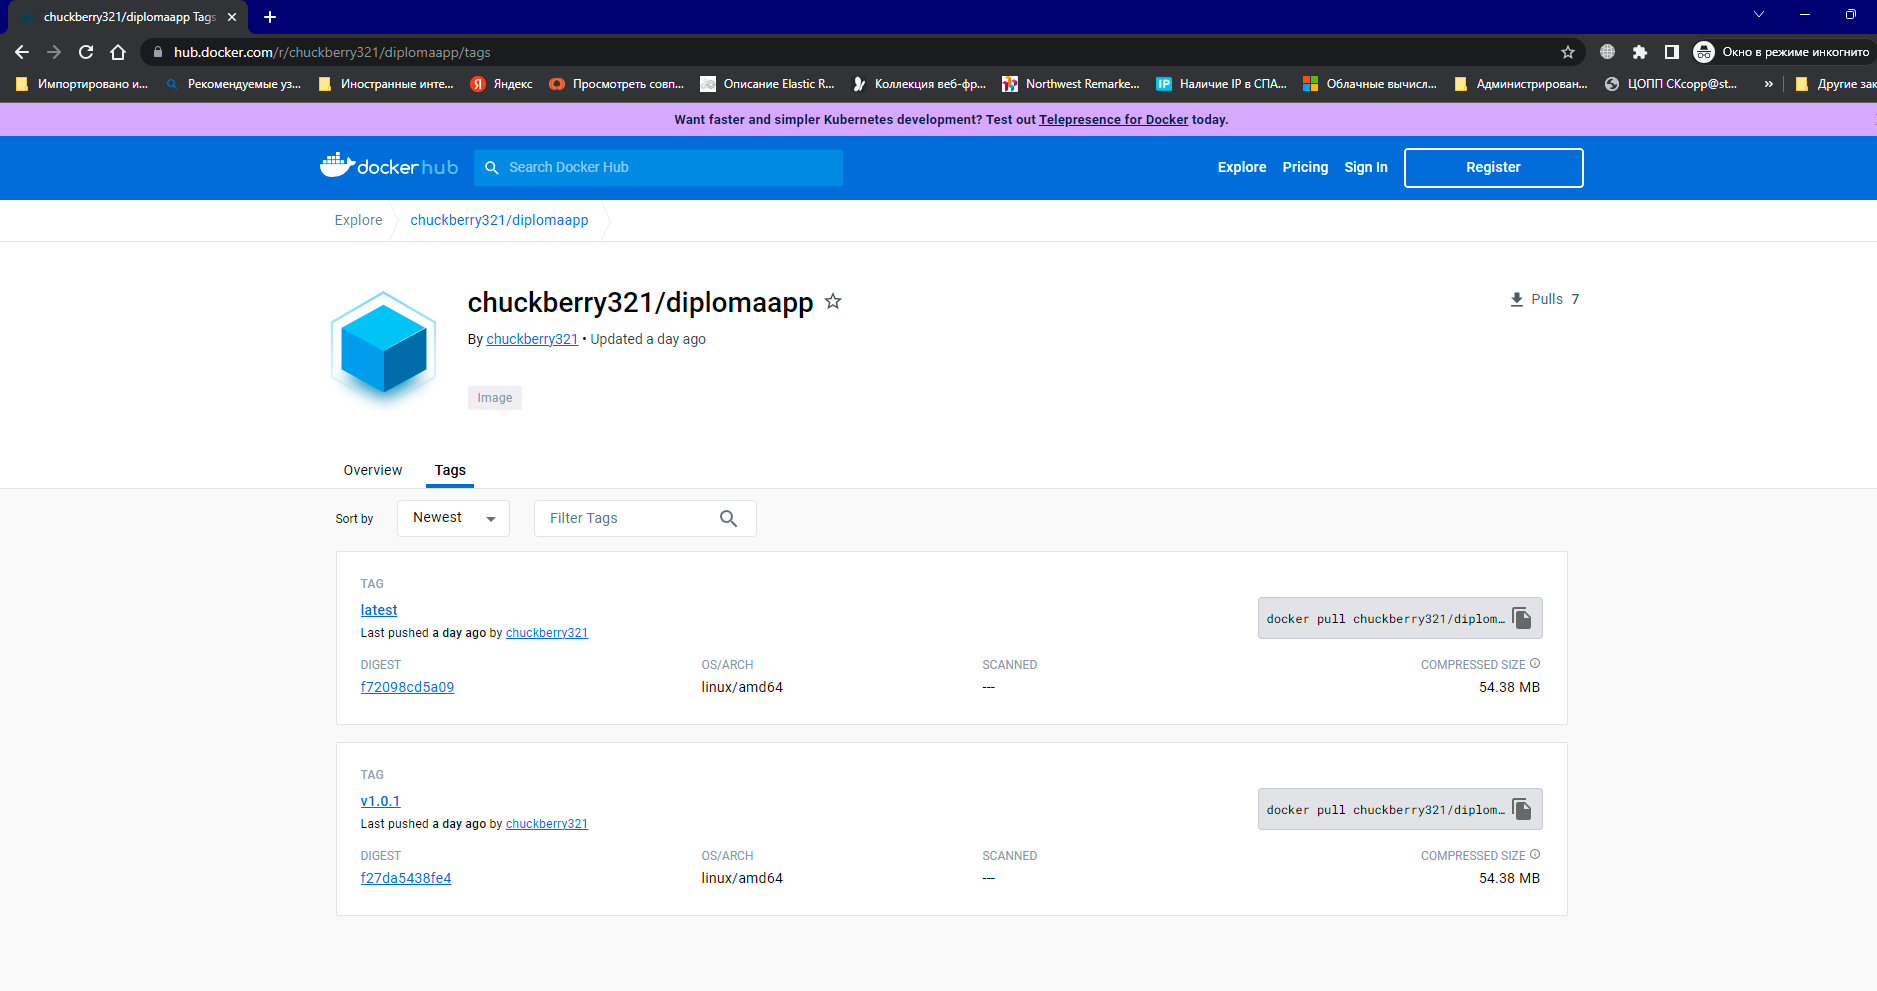
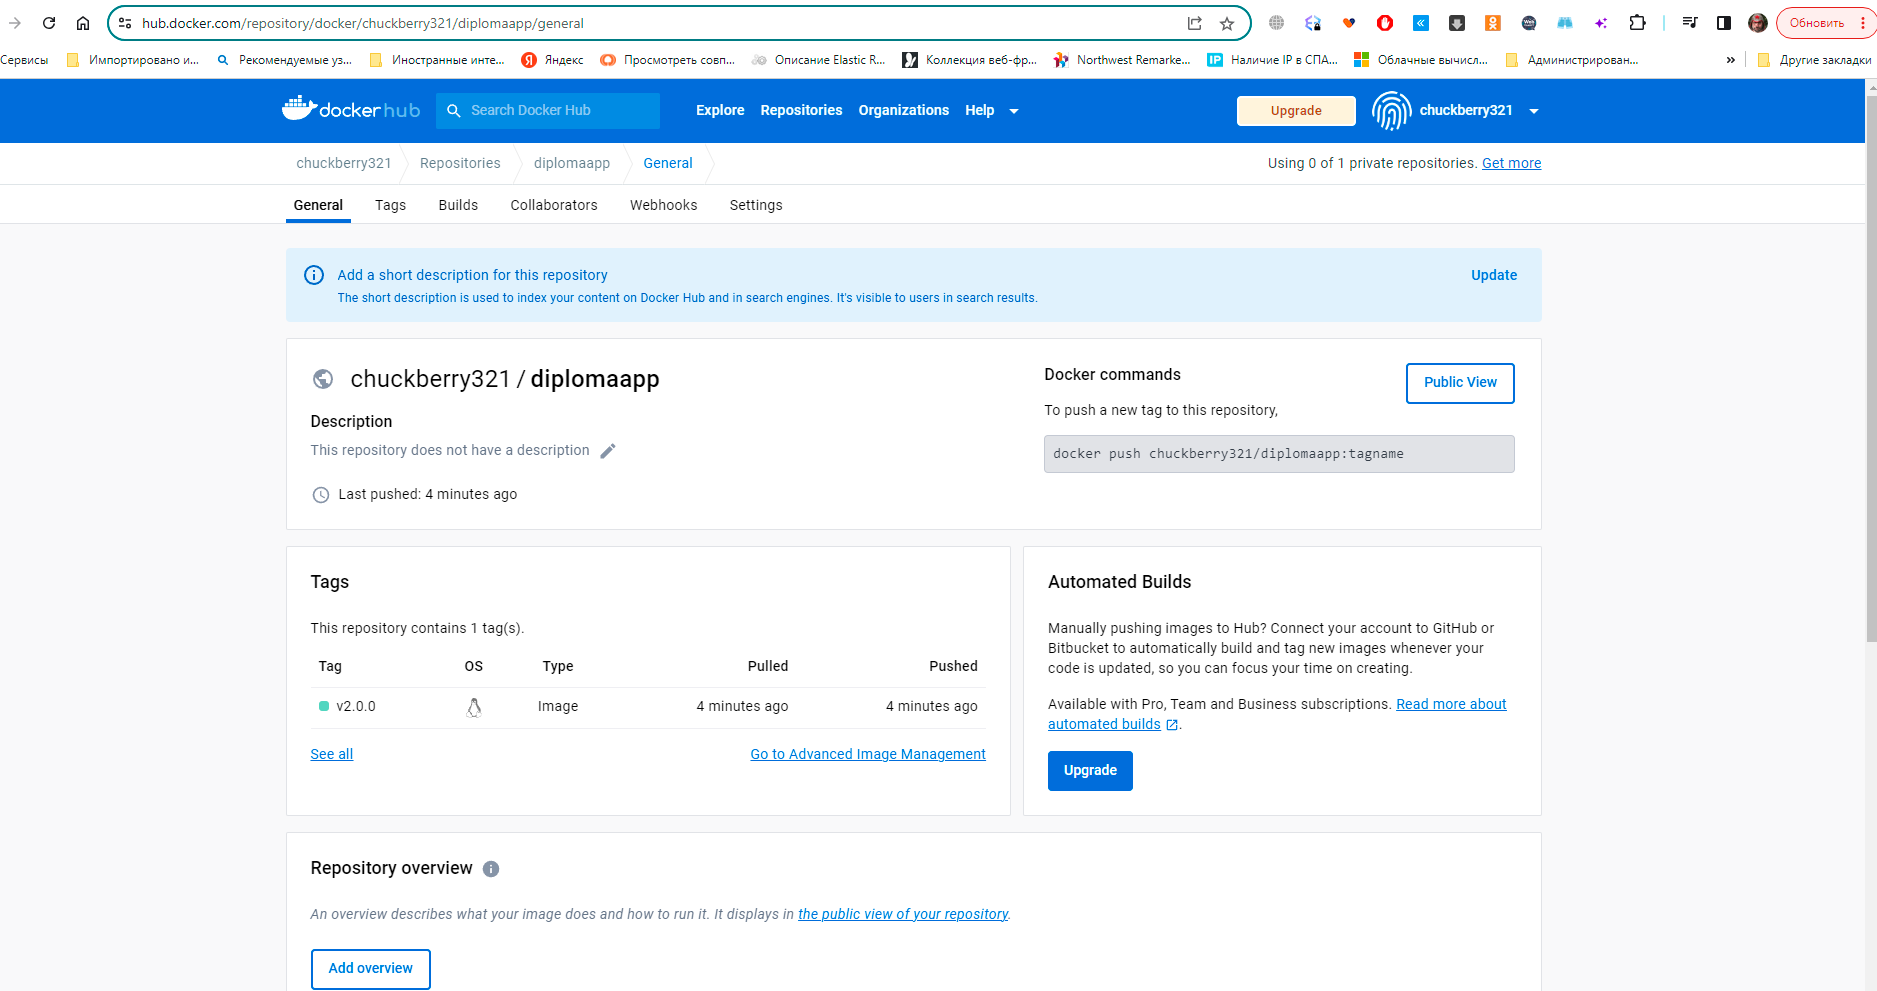
added information in README

diff --git a/README.md b/README.md
@@ -1,4 +1,3 @@
-
 # Дипломный практикум в Yandex.Cloud
 
 <details><summary>Задание</summary>
@@ -156,19 +155,16 @@
 
 **Инстансы в yandex cloud**
 ```
-vagrant@vagrant:~/netology-diploma$ yc compute instances list
+vagrant@vagrant:~$ yc compute instances list
 +----------------------+-----------------+---------------+---------+----------------+-------------+
 |          ID          |      NAME       |    ZONE ID    | STATUS  |  EXTERNAL IP   | INTERNAL IP |
 +----------------------+-----------------+---------------+---------+----------------+-------------+
-| fhm98bkicb0r9t6meg3f | worker-stage-1  | ru-central1-a | RUNNING | 158.160.112.1  | 10.0.10.33  |
-| fhmche7tj7gg4jaok0mk | jenkins-stage-1 | ru-central1-a | RUNNING | 84.252.130.2   | 10.0.10.6   |
-| fhmera2a04jl8rdq2n3n | worker-stage-2  | ru-central1-a | RUNNING | 130.193.51.170 | 10.0.10.28  |
-| fhmlvg7tb0bsrgi09fii | master-stage    | ru-central1-a | RUNNING | 51.250.67.234  | 10.0.10.11  |
+| fhm0efa2n5qh3n0n0fht | master-stage    | ru-central1-a | RUNNING | 158.160.109.85 | 10.0.10.12  |
+| fhmb2lda4s4jn4194kr0 | worker-stage-1  | ru-central1-a | RUNNING | 158.160.99.126 | 10.0.10.16  |
+| fhmm04bqb4o8ph5d9vmg | worker-stage-2  | ru-central1-a | RUNNING | 158.160.103.39 | 10.0.10.15  |
+| fhmraa408lngskejr4kd | jenkins-stage-1 | ru-central1-a | RUNNING | 158.160.105.43 | 10.0.10.9   |
 +----------------------+-----------------+---------------+---------+----------------+-------------+
-
-vagrant@vagrant:~/netology-diploma$ 
-
-vagrant@vagrant:~$ 
+vagrant@vagrant:~$
 ```
 
 3. Репозиторий с конфигурацией ansible, если был выбран способ создания Kubernetes кластера при помощи ansible.
@@ -196,13 +192,13 @@ vagrant@vagrant:~$
 
 6. Ссылка на тестовое приложение и веб интерфейс Grafana с данными доступа.
 
-[Тестовое приложение](http://51.250.67.234:31000/)
+[Тестовое приложение](http://158.160.109.85:31000/:31000/)
 
 **Снимок экрана тестового приложения**
 ![Netdata](/other_files/image5.png)
 
 
-[Grafana](http://51.250.67.234:30030/)
+[Grafana](http://158.160.109.85:30030/)
 
 Доступ:   
 login - admin   
@@ -211,20 +207,32 @@ password - prom-operator
 **Снимок экрана Grafana**
 ![Netdata](/other_files/image6.png)
 
+7. Установка и настройка CI/CD
 
+**Интерфейс Jenkins**
+[Jenkins](http://158.160.105.43:8080/)
 
-7. Все репозитории рекомендуется хранить на одном ресурсе (github, gitlab)
+Сборка образа, отпрвка в hub.docker и публикация приложения происходит после коммита и пуша в репозиторий тестового приложения на github.   
+
+Второй [коммит](https://github.com/chuckberry321/diploma-app/commit/b6cfca845c44d7a4f5b5064b8509aa2484258481)   
+
+**Пайплайн Jenkins после второго коммита, первую сборку запускал из Jenkina/ Следующие запускают после пуша в репозиторий.**
+![Netdata](/other_files/image7.png)
+
+**Репозиторий DockerHub**
+![Netdata](/other_files/image8.png)
+
+**Тестовое приложение, вторая версия после коммита**
+![Netdata](/other_files/image9.png)
+
+**Репозиторий тестового приложения на github. Теги.**
+![Netdata](/other_files/image10.png)
+
+8. Все репозитории рекомендуется хранить на одном ресурсе (github, gitlab)
 
 [Репозиторий с материалами дипломного проекта](https://github.com/chuckberry321/diploma-app.git)
 
 [Репозиторий с приложением](https://github.com/chuckberry321/diploma-app.git)
-
-Для экономии затрат все виртуальные машины прерываемые:
-```
-  scheduling_policy {
-    preemptible = true
-  }
-```
 
 ---
 
